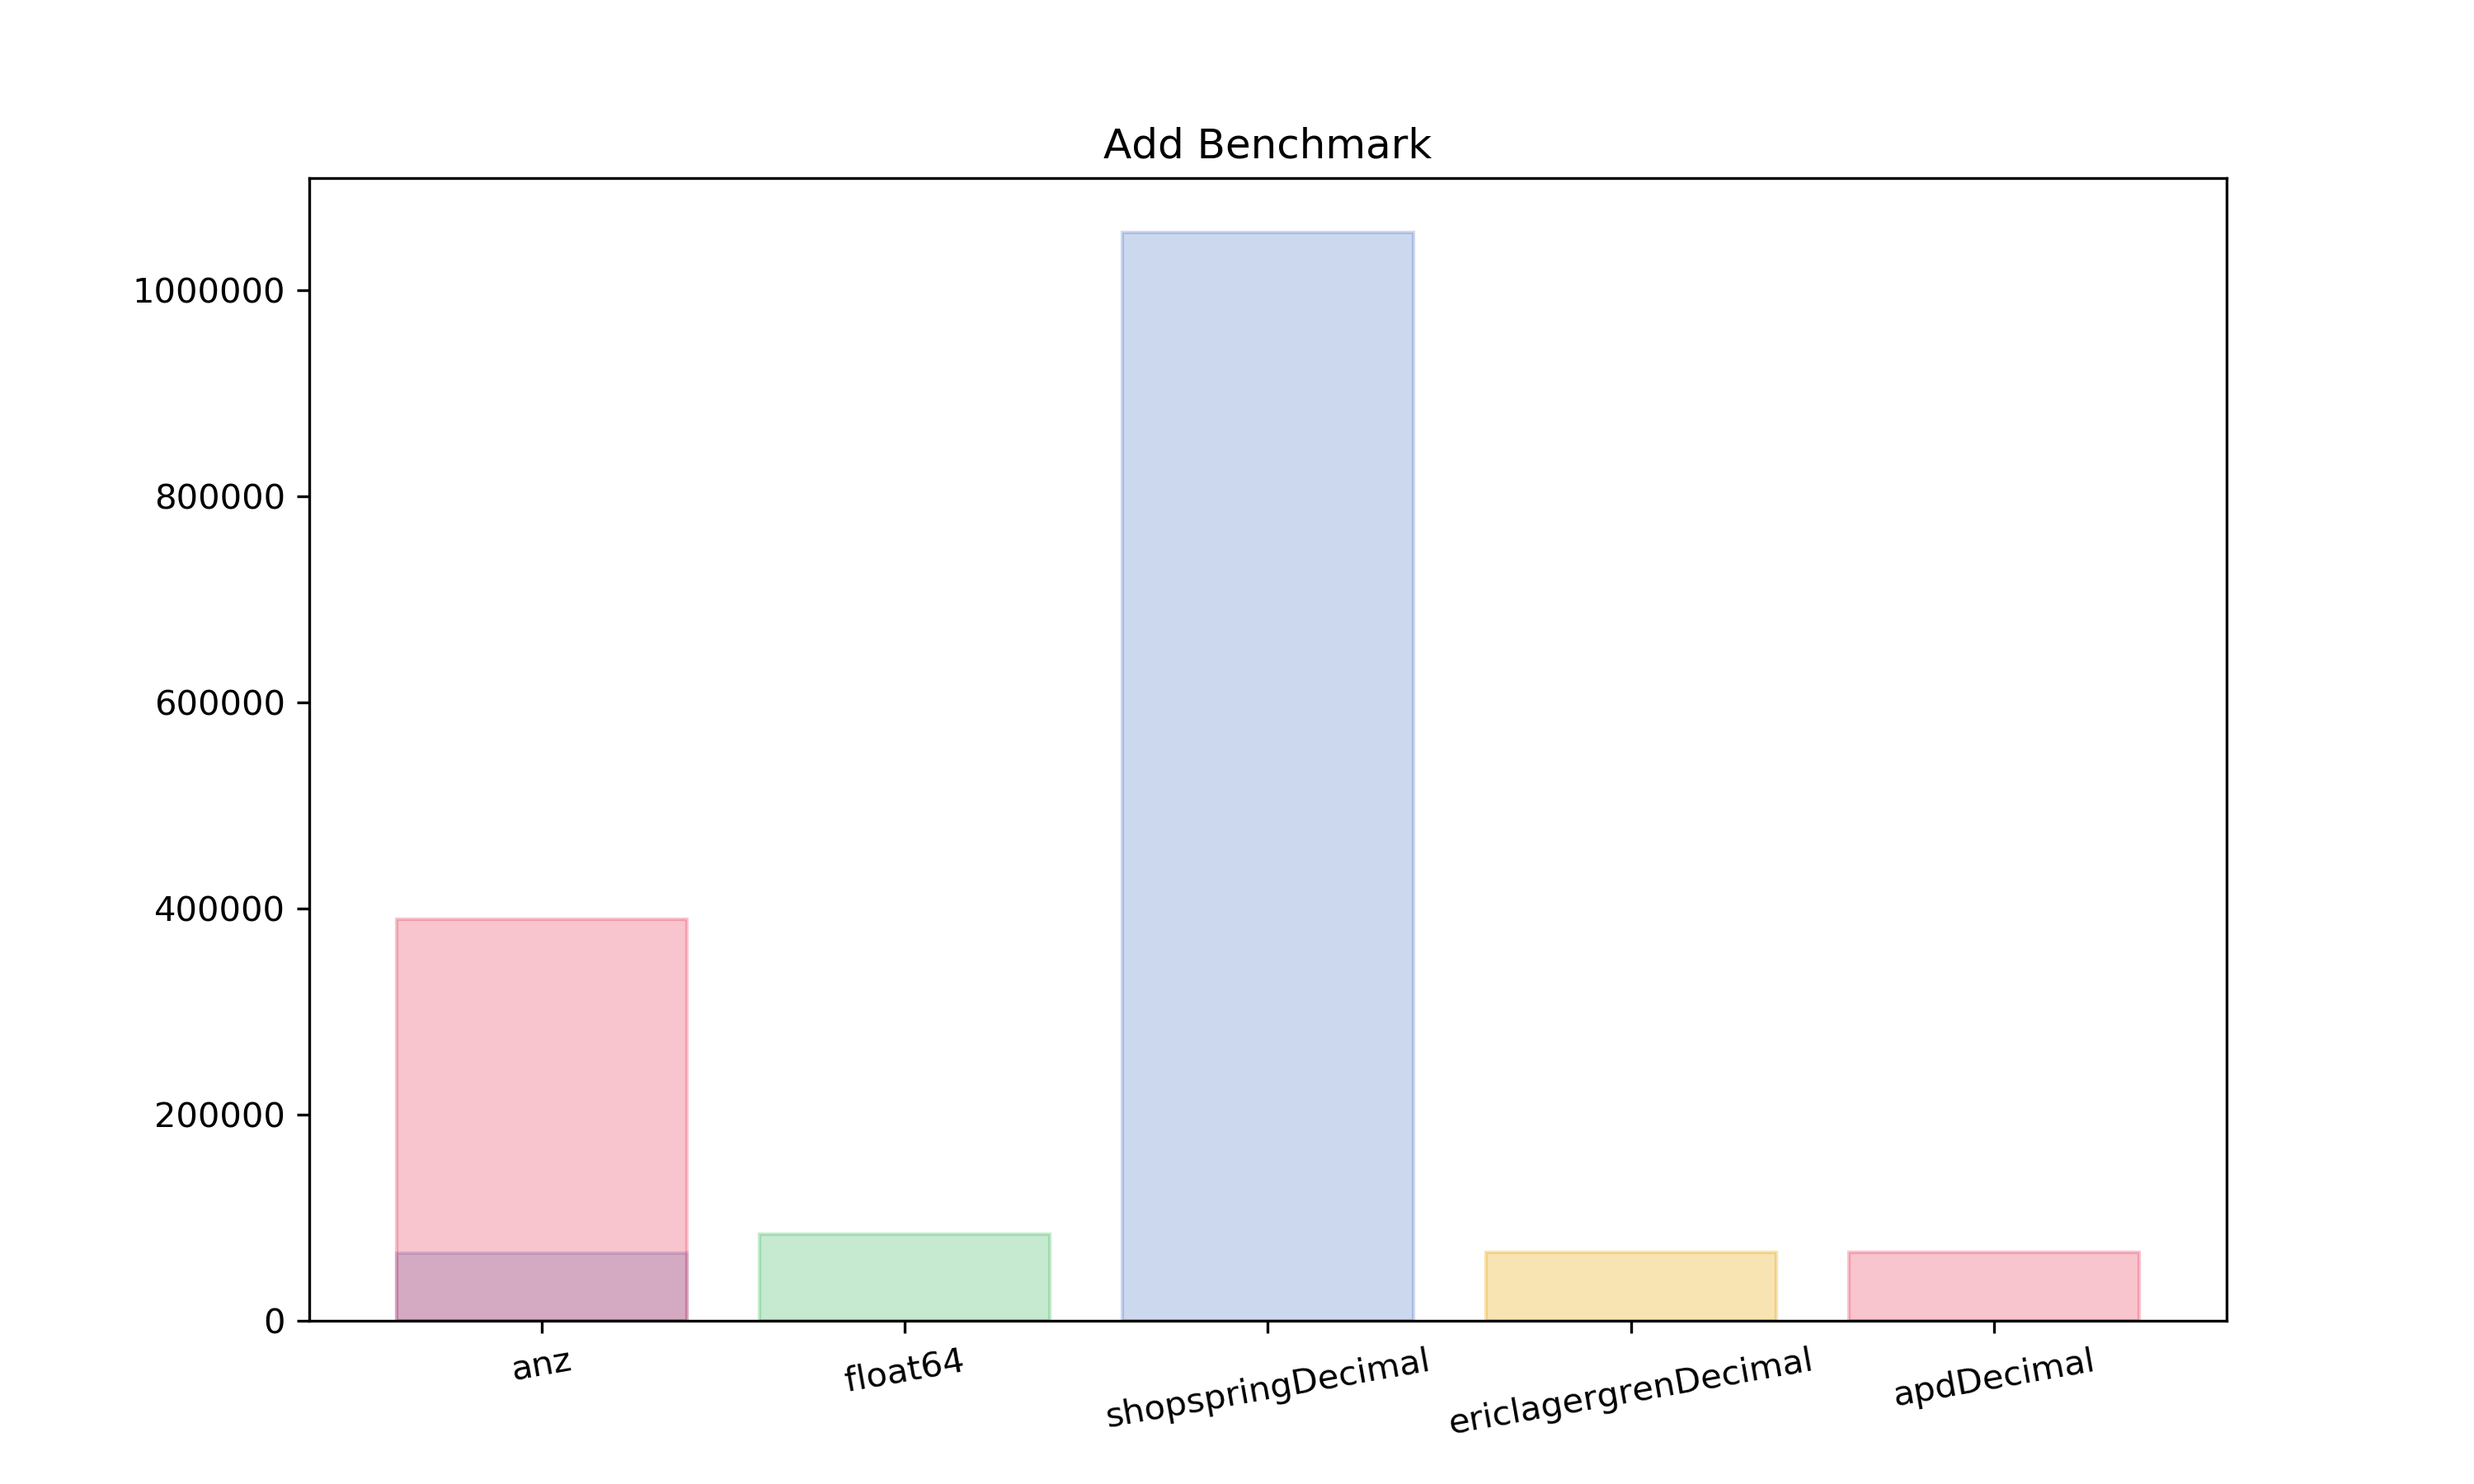
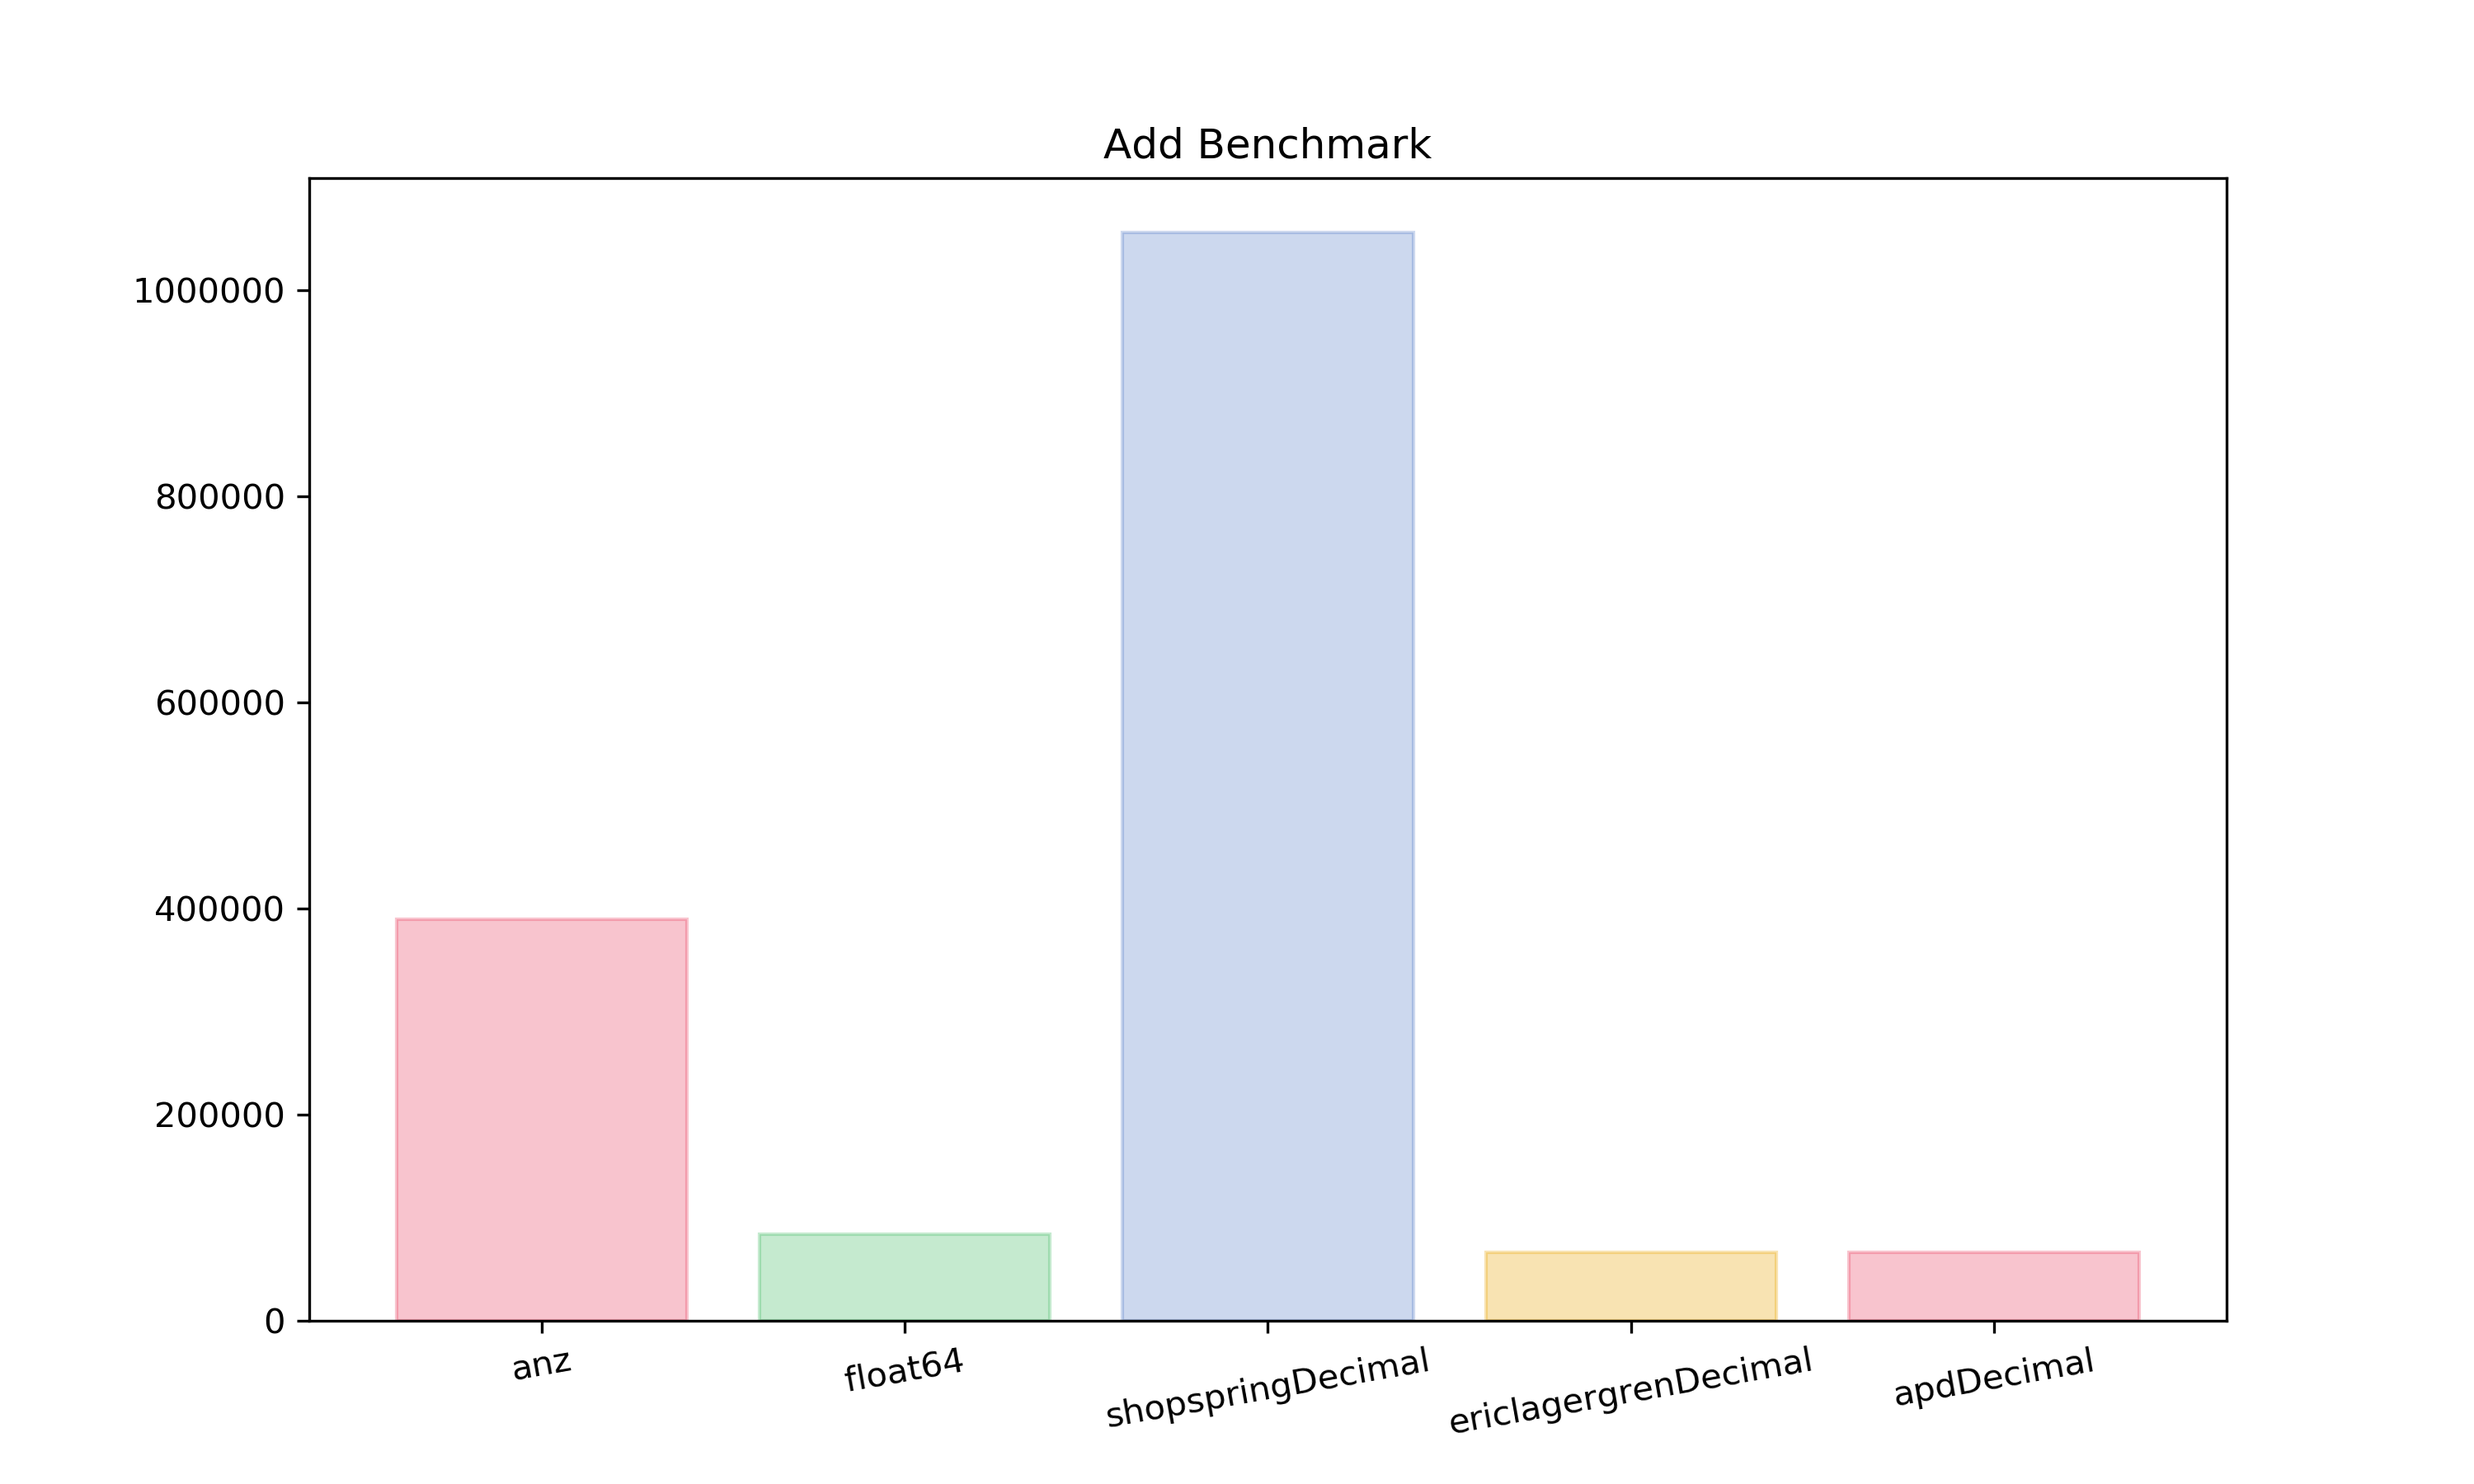
Add _optimised benchmark img

Changed region(s): [[0.155, 0.84, 0.279, 0.9022]]

diff --git a/examples/benchmark/graph.py b/examples/benchmark/graph.py
@@ -52,7 +52,7 @@ def generate_graph(responsetime_filename):
         plt.xticks(x, element.LibraryName)
         plt.xticks(rotation=10)
         plt.title(operation + " Benchmark")
-        plt.savefig(os.path.abspath('../../content/')+f"/img/{operation}.png", dpi=300, figsize=(50,25))
+        plt.savefig(os.path.abspath('../../content/')+f"/img/{operation}_optimised.png", dpi=300, figsize=(50,25))
 
 if __name__ == "__main__":
     # os.system("go test -bench=. > results.txt")
